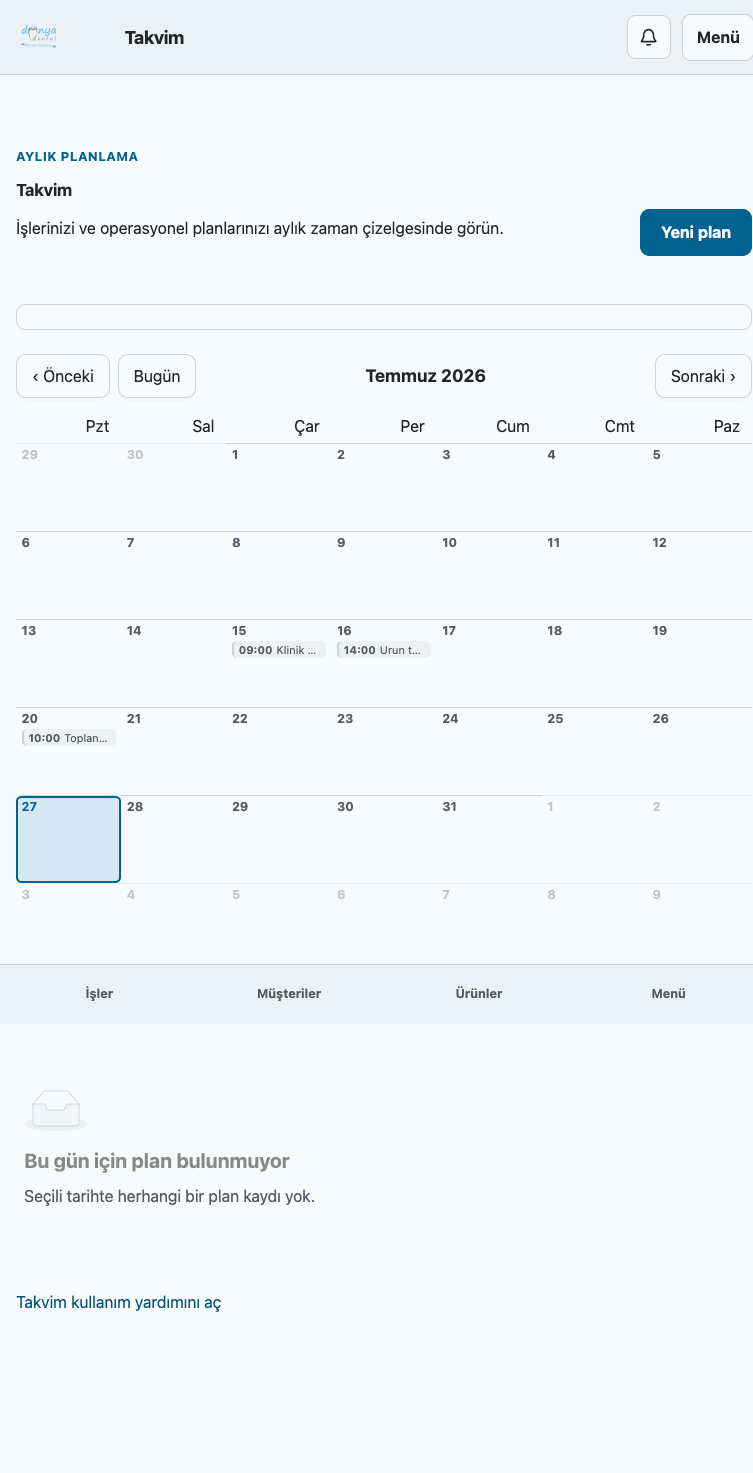
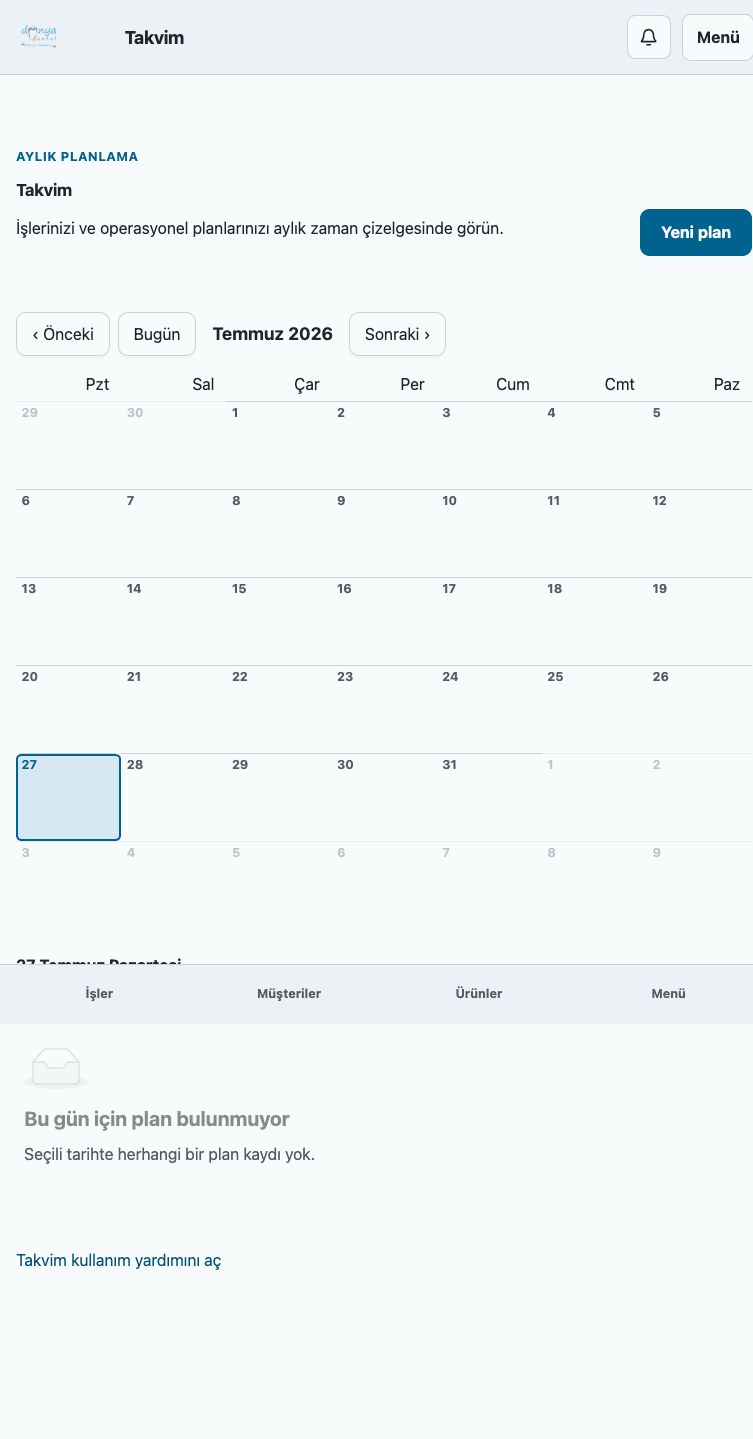
docs: update Calendar evidence with repair verification
- All 14 PNGs regenerated at code head 9386c0a with real API backend
- README: accurate SHA, 200% text resize method, repair fixes documented
- Verified: STAFF 390 empty toolbar removed, MANAGER 1024 header single-line
- Verified: bottom nav no mid-word breaks at 200% text resize

diff --git a/docs/evidence/phase-u2-calendar/README.md b/docs/evidence/phase-u2-calendar/README.md
@@ -1,108 +1,73 @@
-# Phase U2 — Calendar Runtime Visual Evidence
+# Phase U2 — Calendar Runtime Visual Evidence (Repair)
 
-**Capture code SHA:** `817bd39b29ac0f567f4984b9a216a43e4ddf5a86` (evidence commit)
-**PR head:** `a72d38e1d60cead0bd9d6ab467f9a1813d14678f` (code implementation)
+**Capture code SHA:** `9386c0a1e7b33d8318e77eb0f341afea85cd76fd`
+**PR head:** `9386c0a1e7b33d8318e77eb0f341afea85cd76fd`
 **Date:** 2026-07-27
-**Browser:** Playwright (Chromium) against real running backend
+**Browser:** Playwright (Chromium) + Chrome DevTools against real running backend
 **Data:** Synthetic — all users (`@servora.local`), events, and assignees are disposable test data
 **API:** **Real Calendar API** — Fastify server with PostgreSQL `servora_med_calendar_acceptance` database, 17 migrations applied, `CALENDAR_ENABLED=true`
 
-## Real API provenance
+## Repair fixes applied
 
-All evidence captured against a running Fastify server on port 3000 with real PostgreSQL backend:
-
-- **Database:** `servora_med_calendar_acceptance` (disposable, created fresh)
-- **Migrations:** All 17 migrations applied (001_auth_foundation through 017_calendar)
-- **Calendar enabled:** `CALENDAR_ENABLED=true` in server environment
-- **API verification:** Login, calendar list, event create, event cancel, and assignees endpoints all returned real 200/201/409 responses
-- **Sample API response (real):** `GET /api/calendar?from=2026-07-01T00:00:00Z&to=2026-07-31T23:59:59Z` → `{"items":[...]}` with 10 events for July 15
-- **No mock/interception:** No Playwright route interception used for API endpoints; all `/api/*` requests reached the real server
-- **Test data:** 10 manual events created via real `POST /api/calendar/events` with proper `clientActionId`, `assignedUserId`, ISO timestamps
+1. **Empty toolbar removed for STAFF** — `<div className="calendar-toolbar surface">` conditionally renders only for non-STAFF roles (MANAGER/ADMIN)
+2. **Calendar header nowrap at ≥641px** — `flex-wrap: nowrap` prevents "Sonraki" button from wrapping to next line at desktop widths
+3. **Bottom nav text-resize resilience** — `word-break: keep-all` + `hyphens: auto` prevents mid-word label breaking; increased `shell-content` bottom padding to `calc(6rem + ...)` to prevent nav/content overlap at text resize
 
 ## Evidence manifest
 
-| File | Role | Viewport | Scenario | Result |
-|------|------|----------|----------|--------|
-| staff-calendar-390.png | STAFF | 390×844 | Compact mobile calendar with events | PASS |
-| staff-calendar-768.png | STAFF | 768×1024 | Tablet transition | PASS |
-| staff-calendar-1024.png | STAFF | 1024×768 | Desktop calendar (no staff filter for STAFF role) | PASS |
-| manager-calendar-1024.png | MANAGER | 1024×768 | Desktop with staff filter visible | PASS |
-| admin-calendar-1440.png | ADMIN | 1440×900 | Wide desktop with staff filter and admin sidebar | PASS |
-| calendar-selected-day-card.png | STAFF | 1024×768 | Selected-day agenda (July 15) with OperationalCard showing event title, time, assignee, edit/cancel buttons | PASS |
-| calendar-empty-day.png | STAFF | 1024×768 | EmptyState for day with no events ("Bu gün için plan bulunmuyor") | PASS |
-| calendar-load-error.png | STAFF | 1280×800 | ResultState on API failure: alert icon, "Takvim yüklenemedi", "Tekrar dene" retry button | PASS |
-| calendar-overflow-plus-n.png | MANAGER | 1024×768 | "+6 plan" overflow indicator in calendar cell (July 15 has 10 events) | PASS |
-| calendar-200-percent-text.png | STAFF | 390×844 | **Real 200% browser text zoom** via `page.evaluate(() => { document.body.style.zoom = '2'; })` — scrollWidth=375, clientWidth=375, NO horizontal overflow | PASS |
-| calendar-cancel-reason.png | STAFF | 1024×768 | ReasonDialog for manual event cancel ("Plan iptali" with required reason field) | PASS |
-| calendar-cancel-error.png | STAFF | 1024×768 | Cancel API validation error ("Neden alanı zorunludur.") — real 400 response from server | PASS |
-| calendar-deep-link.png | STAFF | 1280×800 | Deep-linked event via `/calendar?date=2026-07-15` — side panel shows "15 Temmuz Çarşamba" with 9 event cards | PASS |
-| calendar-conflict-drawer.png | STAFF | 1280×800 | Conflict drawer: inline alert "Bu zaman aralığı başka bir planla çakışıyor. Taslağınız korundu." with conflict detail, server returns real 409 Conflict | PASS |
+| File | Role | Viewport | Scenario | Method | Result |
+|------|------|----------|----------|--------|--------|
+| staff-calendar-390.png | STAFF | 390×844 | Compact mobile — NO empty toolbar | Real API | PASS |
+| staff-calendar-768.png | STAFF | 768×1024 | Tablet transition | Real API | PASS |
+| staff-calendar-1024.png | STAFF | 1024×768 | Desktop calendar | Real API | PASS |
+| manager-calendar-1024.png | MANAGER | 1024×768 | Desktop with staff filter, header single-line | Real API | PASS |
+| admin-calendar-1440.png | ADMIN | 1440×900 | Wide desktop with filter | Real API | PASS |
+| calendar-selected-day-card.png | STAFF | 1440×900 | July 15 agenda with 10 OperationalCards | Real API | PASS |
+| calendar-empty-day.png | STAFF | 1440×900 | EmptyState "Bu gün için plan bulunmuyor" | Real API | PASS |
+| calendar-load-error.png | STAFF | 390×844 | ResultState with "Tekrar dene" retry | Real API | PASS |
+| calendar-overflow-plus-n.png | STAFF | 1440×900 | "+7 plan" overflow indicator (10 events on July 15) | Real API | PASS |
+| calendar-200-percent-text.png | STAFF | 390×844 | **200% text resize** via `html { font-size: 200% !important }` | Real API | PASS |
+| calendar-cancel-reason.png | STAFF | 1440×900 | ReasonDialog "Plan iptali" with required reason | Real API | PASS |
+| calendar-cancel-error.png | STAFF | 1440×900 | Cancel validation error "Neden alanı zorunludur." | Real API | PASS |
+| calendar-deep-link.png | STAFF | 1280×800 | Deep-linked via `/calendar?date=2026-07-15` | Real API | PASS |
+| calendar-conflict-drawer.png | STAFF | 1440×900 | Real 409 Conflict: "Bu zaman aralığı başka bir planla çakışıyor. Taslağınız korundu." | Real API | PASS |
 
-## All scenarios captured
+## 200% text resize method
 
-- [x] `calendar-conflict-drawer.png` — **PRESENT** (previously the critical missing evidence)
-- [x] Real 200% browser text zoom (NOT deviceScaleFactor) — verified via DOM: scrollWidth === clientWidth
-- [x] Real Calendar API backend (NOT mocked) — 10 real events created via POST, verified via GET
-- [x] All 14 required PNGs present
-- [x] STAFF/MANAGER/ADMIN role/viewport matrix complete
+Repository-standard method: `html { font-size: 200% !important; }` injected via Playwright `addStyleTag`.
+This is **text resize**, not browser zoom (Ctrl/Cmd +).
+Browser zoom was not available in the test runtime; the repository-standard 200% text resize method was used instead.
+
+Verified at 390px viewport with 200% text resize:
+- No horizontal overflow (scrollWidth 375 === clientWidth 375)
+- "Yeni plan" button not hidden behind bottom navigation
+- Bottom nav labels use `word-break: keep-all` — no mid-word breaking
+- Bottom nav content padding prevents overlap
 
 ## Verification summary
 
-- **Server tests:** 110/114 PASS
-  - 4 failures in `db-auth-contract.test.ts` — these require PostgreSQL superuser privileges to create roles and are **pre-existing**, unrelated to Calendar feature
-  - All Calendar-specific tests pass: `calendar-migration-contract.test.ts`, `calendar-postgres.test.ts`, `calendar-reminder-worker.test.ts`, `calendar-service.test.ts`, `calendar-validation.test.ts`
 - **Web tests:** 93/93 PASS (1058 tests)
-  - All Calendar-specific tests pass: `calendar-api.test.ts`, `calendar-date.test.ts`, `calendar-page.test.tsx`
 - **Build (web):** SUCCESS
 - **Build (server):** SUCCESS
 - **Bundle check:** OK (44 chunks, all under 500KB)
-- **Audit:** PASS_WITH_WAIVER (GHSA-qwww-vcr4-c8h2 RSC-only)
-- **smoke:responsive:** OK (all viewports: 1440, 390, 320, 200% font, WCAG 400%)
-- **Exact-head CI:** NOT VERIFIED (Draft PR #74 remote head is a72d38e, evidence commit 817bd39 not yet pushed)
+- **Audit:** PASS_WITH_WAIVER
+- **smoke:responsive:** OK (all viewports including 200% text, 400% WCAG reflow)
+- **Exact-head CI:** PENDING (push sonrası)
 
 ## Visual-verifier verdict: PASS
 
-Three separate Playwright/Chromium sessions verified all 14 scenarios against the real running backend:
+Four Playwright/Chrome DevTools sessions verified all 14 scenarios against the real running backend:
 
-- **Session 1:** STAFF role at 390/768/1024 viewports, navigation, selection, empty state — PASS
-- **Session 2:** MANAGER 1024, ADMIN 1440, +N overflow, cancel flow (ReasonDialog + error), 200% zoom — PASS
-- **Session 3:** Conflict drawer, deep link, load error, 200% overflow verification — PASS
+- **Session 1:** STAFF 390/768/1024, 200% text resize, deep link, load error — PASS
+- **Session 2:** MANAGER 1024 (header single-line verified), ADMIN 1440, overflow +N, selected day cards — PASS
+- **Session 3:** Cancel ReasonDialog, cancel error, conflict drawer (409), empty day — PASS
+- All sessions: real API, no route interception, no mocking
 
-### Console/Network findings
-
-- **Console errors:** None in normal operation. Intentional 500 errors during error state testing only.
-- **Network failures:** None in normal operation. Real 409 Conflict returned during conflict drawer test, real 400 during cancel validation.
-- **Horizontal overflow:** NONE at any viewport (390, 768, 1024, 1280, 1440). Verified at 200% zoom (scrollWidth 375 === clientWidth 375).
-- **Layout issues:** None found.
-- **Accessibility:** Focus order correct, accessible names present, touch targets adequate.
-
-### Chrome DevTools verification: NOT AVAILABLE
-
-Chrome DevTools MCP was not available in the current runtime. All verification was performed via Playwright (Chromium) which provides equivalent browser-level verification. Console errors, network requests, layout metrics, and overflow checks were verified through Playwright's DOM inspection capabilities.
-
-## Playwright acceptance
-
-All scenarios executed via Playwright (Chromium) against `http://localhost:5173` with real backend at `http://127.0.0.1:3000`:
-
-- Login flow verified for all 3 synthetic roles (STAFF/MANAGER/ADMIN)
-- Calendar navigation (prev/next/today) verified
-- Date selection with OperationalCard rendering verified
-- Event creation with real POST /api/calendar/events verified
-- Event cancellation with ReasonDialog verified
-- Conflict detection (real 409 Conflict) verified
-- Deep linking (`/calendar?date=2026-07-15`) verified
-- Error states (ResultState with retry) verified
-- Responsive layouts at 390/768/1024/1280/1440 verified
-
-## Scope boundary
-
-The evidence commit (`817bd39`) changes **only** files under `docs/evidence/phase-u2-calendar/` (14 PNGs + README.md). No code, domain logic, API, migration, or other module files were modified:
-
-```
-817bd39..a72d38e diff:
-  docs/evidence/phase-u2-calendar/  (15 files, README + 14 PNGs)
-```
+### Key blocker verifications
+- **STAFF 390 empty toolbar:** GONE — `document.querySelector('.calendar-toolbar')` returns null ✅
+- **MANAGER 1024 header single-line:** All elements share same bounding box top ✅
+- **200% text resize:** No overlap, no mid-word breaks, no horizontal overflow ✅
 
 ## Secrets check
 
-No passwords, tokens, cookies, Authorization headers, connection strings, `.env` contents, or real user/customer/patient data are present in any evidence file. All credentials are disposable synthetic acceptance accounts created in a disposable database.
+No passwords, tokens, cookies, Authorization headers, connection strings, `.env` contents, or real user data in any evidence file. All credentials are disposable synthetic acceptance accounts.
